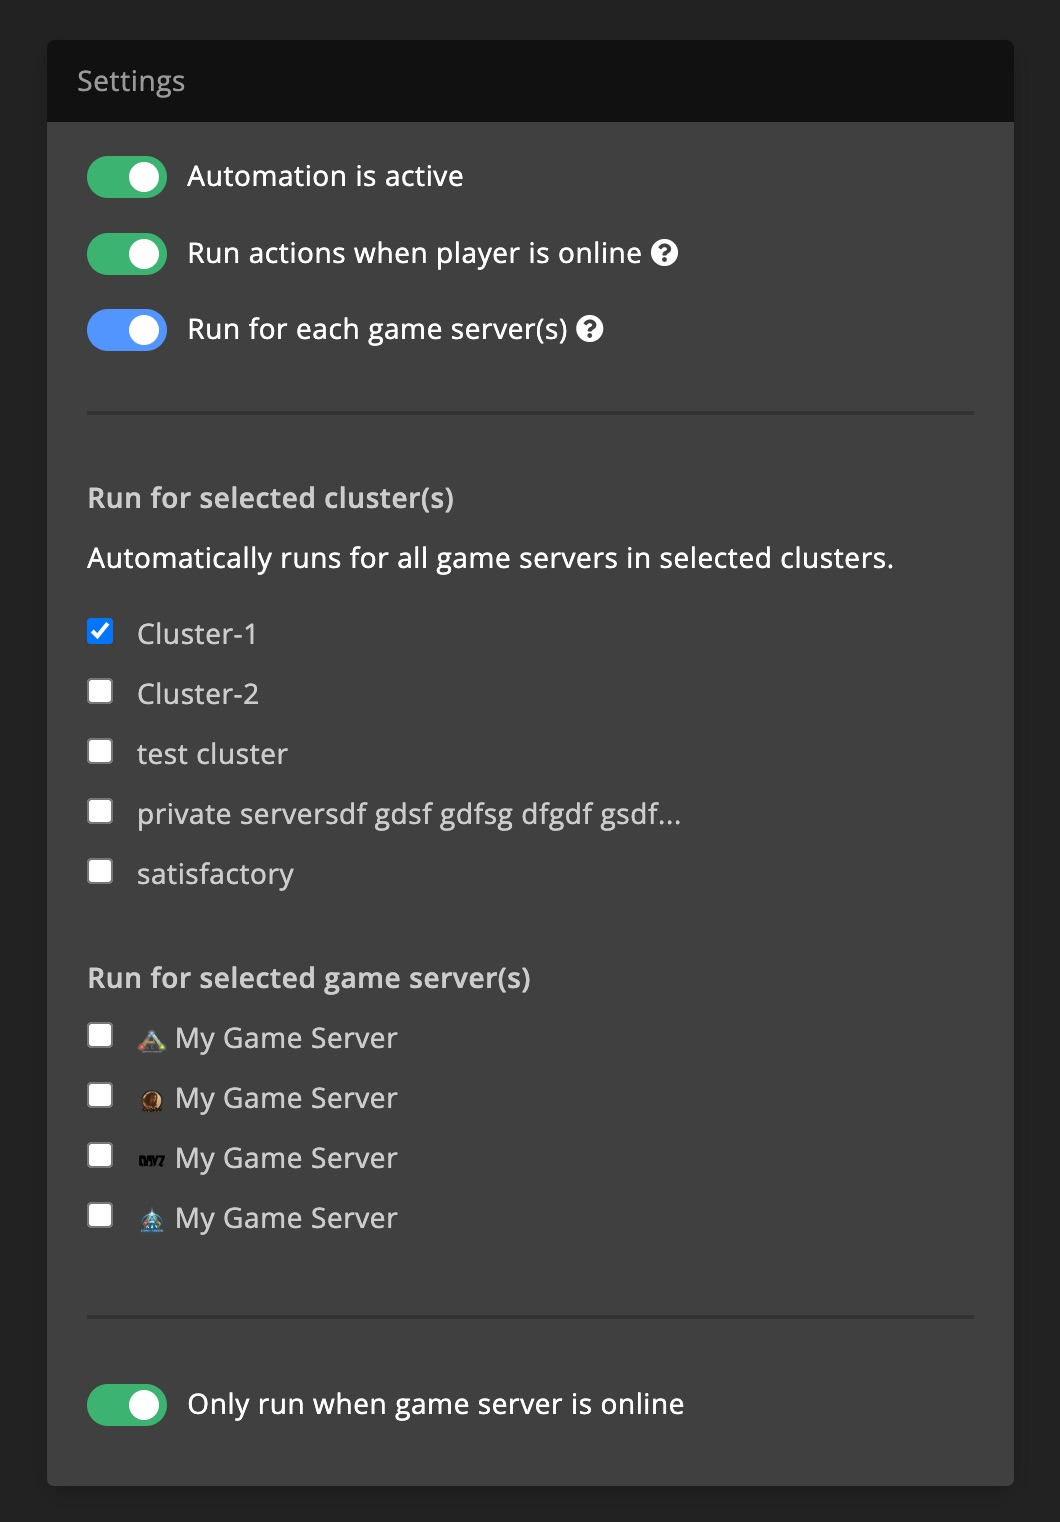
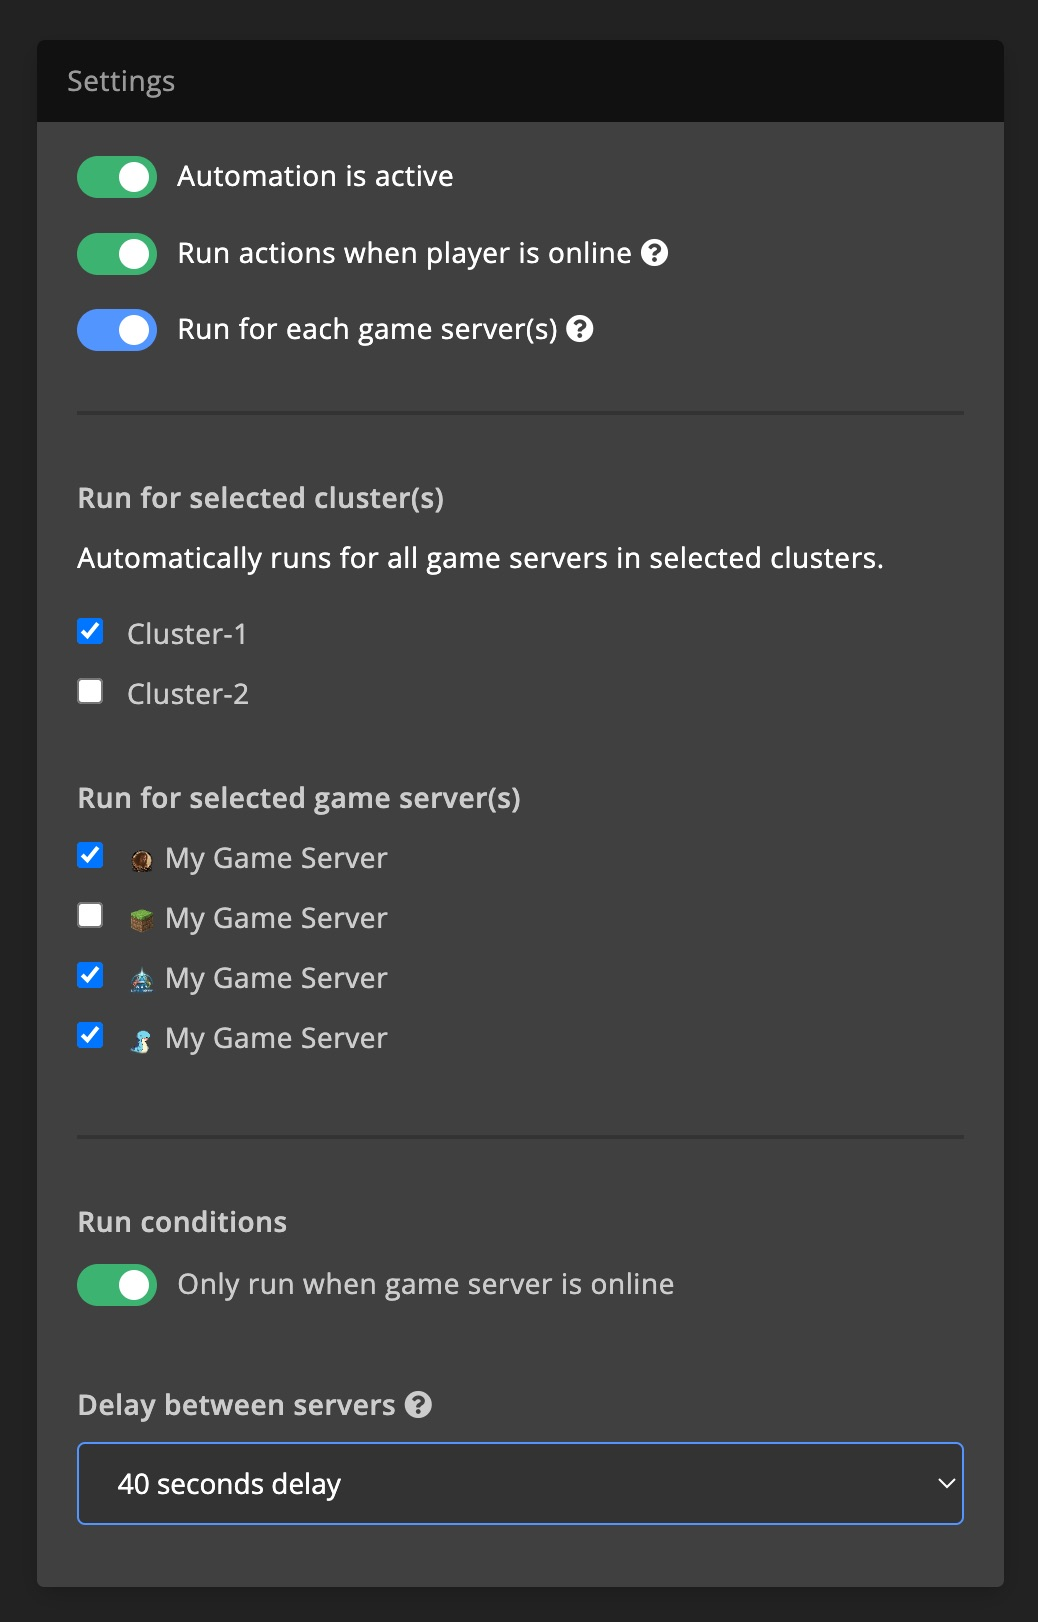
add server delay + new actions + update available conditions/events/triggers per task type

Changed region(s): [[0.0308, 0.0309, 0.9865, 0.9882], [0.4008, 0.4632, 0.4933, 0.4941]]

diff --git a/Documentation/docs/dashboard/automate_tasks/getting_started.md b/Documentation/docs/dashboard/automate_tasks/getting_started.md
@@ -71,10 +71,11 @@ Achievement tasks can be triggered based on the following criteria:
   - Player is whitelisted for [X]
   - Player has over [X] tokens
   - Player voted [X] times [since]
+  - Player voted
   - Player connected other account (any or specific type)
 - Character
-  - Character minutes online above [X]
   - Character reached level [X]
+  - Character minutes online above [X]
 
 ### Scheduled
 
@@ -87,11 +88,16 @@ Scheduled tasks can be run based on the following criteria:
   - At specific moment [date & time] (runs once)
 - Repeating
   - Every [X] minutes
+- Hourly
   - Every hour at minute [X]
   - Every [X] hours at minute [Y]
+- Daily
   - Every day at [hour]
+- Weekly
   - Weekly at specific day and time
+- Monthly
   - Monthly at specific day and time
+  - Monthly at [X]nth day and time
 
 ### Trigger / event
 
@@ -105,9 +111,10 @@ Trigger / Events tasks can be run based on the following criteria:
   - Character goes offline
   - New character created
   - Character Wake up (ARK / ATLAS only)
-- Player
+- Chat
   - Player chat contains [X] (one or multiple)
   - Player chat exactly matches [X] (one or multiple)
+- Vote / Review
   - Player voted
   - Player voted [X] times [since]
   - New review posted
@@ -133,6 +140,14 @@ When `Run for each game server(s)` is active you must select one or more cluster
 
 #### Only run when game server is online
 By default tasks will only run for game servers that are online. If available you can disable the switch to let tasks also run for offline game servers.
+
+#### Delay between servers
+Adds delay between each game server task, in order to spread load when running on many game servers.
+
+Options:
+- No delay
+- 20 second delay
+- 40 second delay
 
 ### Run actions when player is online
 When enabled this setting will ensure the actions wait for the player to come online before running. This avoids issues with actions (commands for example) that do not support offline delivery. Can be turned off for actions that don't depend on the player being online.

diff --git a/Documentation/docs/dashboard/automate_tasks/available_actions.md b/Documentation/docs/dashboard/automate_tasks/available_actions.md
@@ -165,6 +165,12 @@ Currently available groups:
 
 ![Automations / Tasks - Action - Run actions per player](/img/dashboard/automate_tasks/actions/action_run_actions_per_player.jpg)
 
+### Run actions per game server
+Loops over the selected game servers and runs the actions configured for each game server.
+This action is only available in Shop packs and Supporter Tiers.
+
+![Automations / Tasks - Action - Run actions per game server](/img/dashboard/automate_tasks/actions/action_run_actions_per_gameserver.jpg)
+
 
 ## Manage items
 
